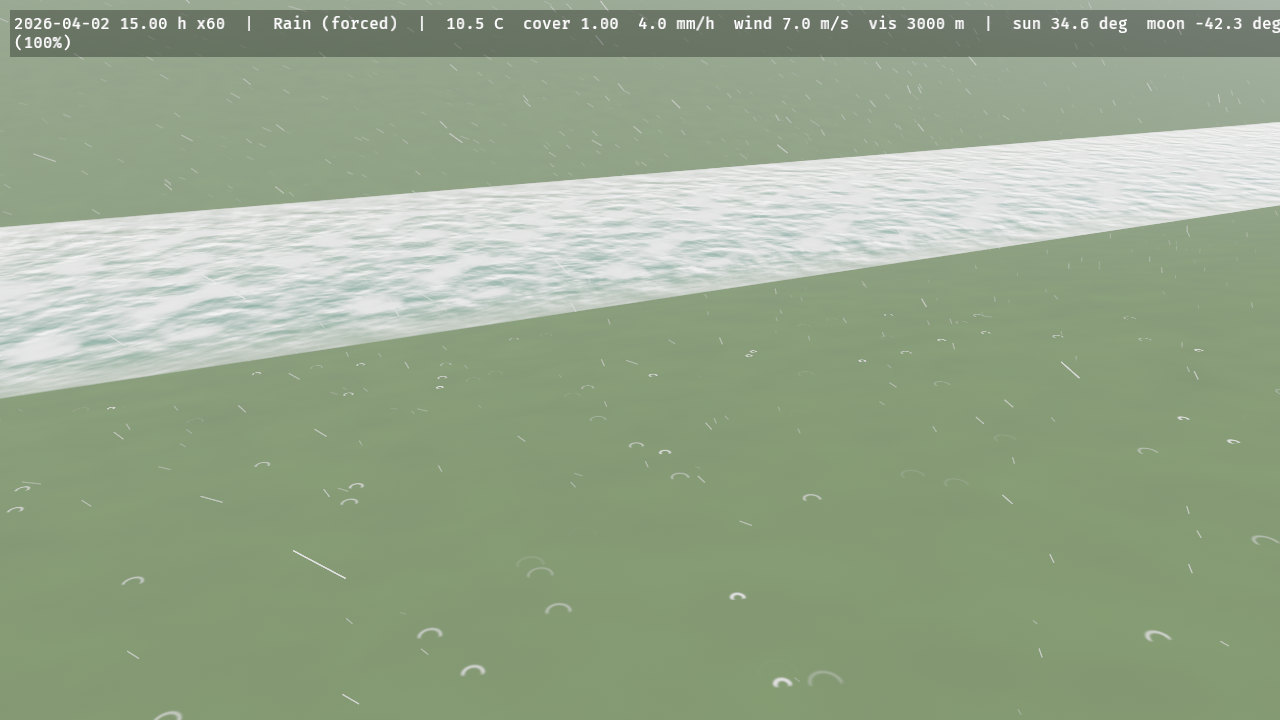
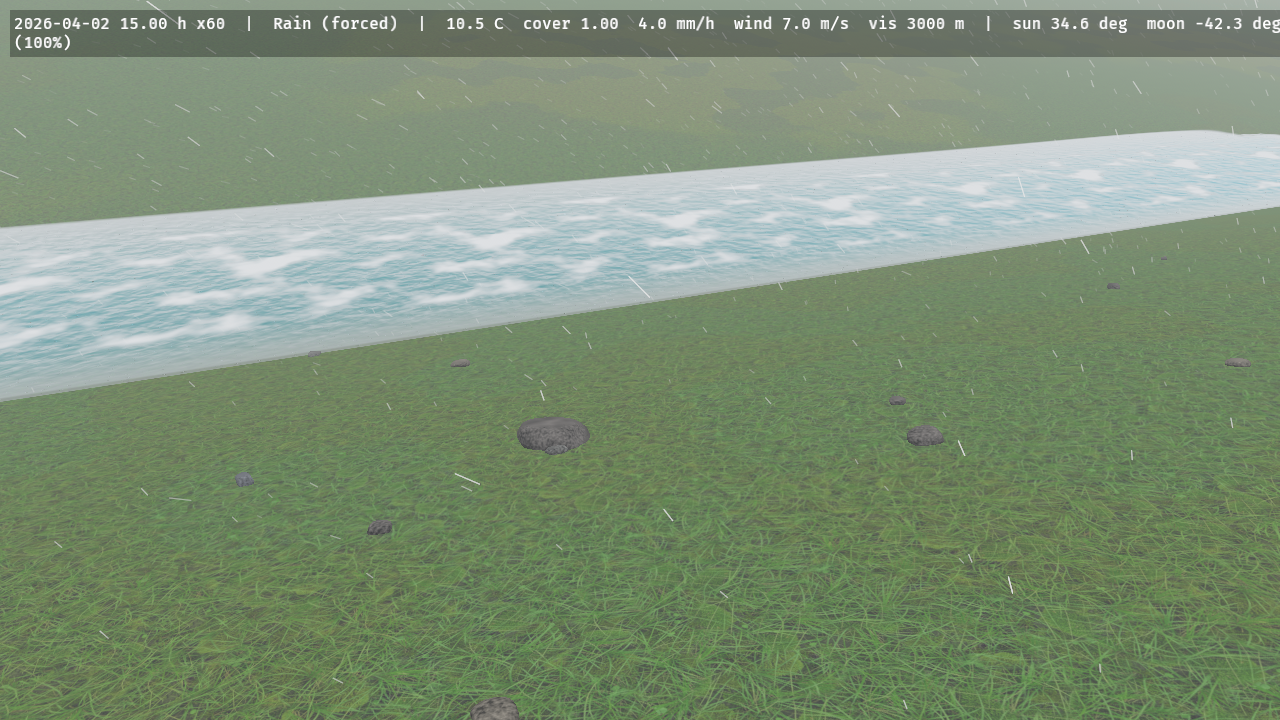
Docs: wet ground (README, showcase stills, changelog, the notes' pointers, three AGENTS traps)

diff --git a/README.md b/README.md
@@ -185,7 +185,7 @@ By default the crate draws the ground: a pool of 33 × 33-vertex patches selecte
 
 #### Clouds in reflections and sky light
 
-Every reflection and the sky light of every PBR surface come from the camera's environment map. `CloudPlugin` puts the clouds in it: it marches them into a cube around the followed camera (the size of its atmosphere cube, 128² per face by default), composes that cube with Bevy's clear-sky cube exactly as the screen composite composes the sky (toward the ground, Bevy's ground lit by the light the dome lets through), and hands it to the camera's `GeneratedEnvironmentMapLight`, which Bevy filters into the glossy reflections and the diffuse irradiance. A pond under cumulus reflects the cumulus and the blue between them; under overcast, water and wet ground are a grey mirror a little darker than the sky (they reflected a blue sky, and near grazing were brighter than the sky); and the overcast dome lights a top more than a wall and a wall more than an underside (1 : 0.67 : 0.37), so a metal box mirrors the bright sky on its top and the ground on its sides. The camera's `AmbientLight` then carries no cloud light. One texel of every k × k block of each face is re-marched a frame at half the screen march's steps (`CloudQuality::probe_edge`) and blended into its history; a camera without the crate's atmosphere, or that is not followed, keeps Bevy's sky and the uniform cloud ambient. The overcast dome comes out nearly flat (zenith 1.08 × the sky 5–10° up) where real overcast skies are graded 2:1 to 3:1: that is the cloud model's, on the screen too. `docs/research/sky-light.md`.
+Every reflection and the sky light of every PBR surface come from the camera's environment map. `CloudPlugin` puts the clouds in it: it marches them into a cube around the followed camera (the size of its atmosphere cube, 128² per face by default), composes that cube with Bevy's clear-sky cube exactly as the screen composite composes the sky (toward the ground, Bevy's ground lit by the light the dome lets through), and hands it to the camera's `GeneratedEnvironmentMapLight`, which Bevy filters into the glossy reflections and the diffuse irradiance. A pond under cumulus reflects the cumulus and the blue between them; under overcast, water is a grey mirror a little darker than the sky (it reflected a blue sky, and near grazing was brighter than the sky); and the overcast dome lights a top more than a wall and a wall more than an underside (1 : 0.67 : 0.37), so a metal box mirrors the bright sky on its top and the ground on its sides. The camera's `AmbientLight` then carries no cloud light. One texel of every k × k block of each face is re-marched a frame at half the screen march's steps (`CloudQuality::probe_edge`) and blended into its history; a camera without the crate's atmosphere, or that is not followed, keeps Bevy's sky and the uniform cloud ambient. The overcast dome comes out nearly flat (zenith 1.08 × the sky 5–10° up) where real overcast skies are graded 2:1 to 3:1: that is the cloud model's, on the screen too. `docs/research/sky-light.md`.
 
 ![The pond at 16:30 under a partly cloudy sky: the cumulus and the blue gaps between them reflected in the water, which is a mirror with a fine skin on it](docs/sky_light.png)
 
@@ -229,7 +229,7 @@ fn strategy_view(mut commands: Commands) {
 
 ### Weathered materials
 
-`WeatheredMaterial` is `ExtendedMaterial<StandardMaterial, WeatheredExtension>`: give any mesh one and it follows the weather. `WeatheredPlugin` writes `ElementsGlobals` every frame (wetness, snow cover and snow depth from `SurfaceWeathering`, the rain intensity `min(1, R_liquid/20)`, the cloud shadow map, ripple and streak phases, the world units, the trail window) into one 128-byte storage buffer all weathered materials bind (binding 101, fragment stage only: it leaves the fragment stage two of the eight storage buffers WebGPU guarantees). A wet surface loses up to half its albedo in proportion to its porosity (Lagarde's gloss-based estimate: rough surfaces soak, plastic, tile and metal do not) and its roughness falls toward 0.1; rain on a wall adds darker streaks that run down it; faces turn white under snow with the curve `snow · smoothstep(0.85 − 0.6 snow, +0.2, n.y)` that `bevy_flora` uses, snow albedo `SNOW_ALBEDO` and roughness `SNOW_ROUGHNESS`, so trees and buildings read as one snow. `WeatheredExtension::exposure` is 1 under open sky and 0 sheltered (no wetness, streaks or snow, only cloud shadow): it does not follow a `PrecipitationBlocker` by itself, set it from your own test. `WeatheredExtension::default().with_trails()` also draws the trails pressed into it (below).
+`WeatheredMaterial` is `ExtendedMaterial<StandardMaterial, WeatheredExtension>`: give any mesh one and it follows the weather. `WeatheredPlugin` writes `ElementsGlobals` every frame (wetness, snow cover and snow depth from `SurfaceWeathering`, the rain intensity `min(1, R_liquid/20)`, the cloud shadow map, ripple and streak phases, the world units, the trail window) into one 128-byte storage buffer all weathered materials bind (binding 101, fragment stage only: it leaves the fragment stage two of the eight storage buffers WebGPU guarantees). A wet surface loses up to half its albedo in proportion to its porosity (Lagarde's gloss-based estimate: rough surfaces soak, plastic, tile and metal do not); a porous surface gains Lagarde's limited sheen (roughness × (1 − 0.4 · wetness · porosity), 0.54 for a soaked rough wall) and a smooth or metal one a water film at 0.1, as does a porous one drenched past saturation (a rain streak); rain on a wall adds darker streaks that run down it; faces turn white under snow with the curve `snow · smoothstep(0.85 − 0.6 snow, +0.2, n.y)` that `bevy_flora` uses, snow albedo `SNOW_ALBEDO` and roughness `SNOW_ROUGHNESS`, so trees and buildings read as one snow. `WeatheredExtension::exposure` is 1 under open sky and 0 sheltered (no wetness, streaks or snow, only cloud shadow): it does not follow a `PrecipitationBlocker` by itself, set it from your own test. `WeatheredExtension::default().with_trails()` also draws the trails pressed into it (below). `docs/research/wet-ground.md`.
 
 ```rust
 # use bevy::prelude::*;
@@ -274,7 +274,7 @@ fn pour_a_river(mut commands: Commands, mut bake: MessageWriter<ErodeTerrain>) {
 
 ### Ground cover
 
-`GroundCoverPlugin` keeps two maps on the `Terrain`'s grid, stepped on game time (the `WorldClock`) at most 20 times a second after hydrology's substeps. **Snow** is a depth and a water equivalent per cell: it accumulates at the cell's own rain–snow split (the lapse rate makes ridges snowier than valleys), keeps less on slopes between 35° and 55° and none under a `PrecipitationBlocker` (the roof's shelter follows the slanted fall of the rain or snow), settles from 100 toward 300 kg/m³ with a 3-day time constant, drifts downwind above 5 m/s (a flux that grows with the cube of the excess, deposited where the wind slows in the lee), is smoothed over a few cells, and melts at 4 mm of water per °C per day, every millimetre arriving in the `water` layer. **Wetness** follows rain and evaporation; the terrain and ground materials shade snow, wet darkening and gloss, and puddles with ripples.
+`GroundCoverPlugin` keeps two maps on the `Terrain`'s grid, stepped on game time (the `WorldClock`) at most 20 times a second after hydrology's substeps. **Snow** is a depth and a water equivalent per cell: it accumulates at the cell's own rain–snow split (the lapse rate makes ridges snowier than valleys), keeps less on slopes between 35° and 55° and none under a `PrecipitationBlocker` (the roof's shelter follows the slanted fall of the rain or snow), settles from 100 toward 300 kg/m³ with a 3-day time constant, drifts downwind above 5 m/s (a flux that grows with the cube of the excess, deposited where the wind slows in the lee), is smoothed over a few cells, and melts at 4 mm of water per °C per day, every millimetre arriving in the `water` layer. **Wetness** follows rain and evaporation; the terrain and ground materials shade snow, wet darkening and a porous sheen, and puddles with ripples. On the terrain the grass is a canopy whose wax beads the rain: a wet meadow deepens its green by `bevy_flora`'s wet-leaf rule (saturation × 1.25, brightness kept) and does not gloss, and only the soil, sand, rock and scree between darken and shine. Rain rings on a live terrain only where water stands at least `WetnessSettings::puddle_min_m` deep (`docs/research/wet-ground.md`).
 
 ```rust
 # use bevy::prelude::*;
@@ -294,7 +294,7 @@ fn deep_wet_snow(mut commands: Commands) {
 
 `Environment::snow_depth(Vec2)` and `wetness(Vec2)` answer from the last readback like `water_depth`. `SurfaceWeathering` (and so `ElementsGlobals` and `WeatheredMaterial`) follows the mean of the maps within 50 m of the camera once a terrain has been read back; before that, and without a terrain, it is the point model at the reference elevation.
 
-![Snow a game hour in under a clear sky](docs/ground_cover_snow.png) ![Wet ground with level puddles and ripples after a rain bake](docs/ground_cover_rain.png)
+![Snow a game hour in under a clear sky](docs/ground_cover_snow.png) ![After a rain bake under the Rain preset: the meadow a deeper green, level puddles in the hollows reflecting the overcast](docs/ground_cover_rain.png)
 
 ### Rocks
 
@@ -569,6 +569,8 @@ The budget is 1.0 ms at High. The weather map, shadow map, resolve and composite
 Terrain with 1024² cells over 2048 m (`hills(42)`; measured before High took Medium's 512² simulation size, below), 3840 × 2160, the camera 30 m above the ground looking 20° above the horizon (about half the frame is ground), minimum over the diagnostic history with the GPU at 1800–1950 MHz: the generator and first pack (`elements_terrain`: generate, pack, flow pack, leaf bounds and readback kernels, once at spawn, then again only when hydrology or erosion changes a layer) 0.34 ms; the terrain drawn: Bevy's `main_opaque_pass_3d` 0.088 ms (mean 0.146) against 0.016 ms (0.025) for the flat test scene, and the depth prepass 0.005 ms (0.002 ms for the flat scene). The selection picks at most 133 patches at High over 1500 random cameras, and the pool update writes nothing for a patch that kept its slot and bounds.
 
 Ground textures (`GroundTextures`), 3840 × 2160, the eye-level meadow (`hills`, `ELEMENTS_EYE=0,0,0 ELEMENTS_LOOK=12,-3,8 ELEMENTS_AGL=1.7`, ground filling the frame below the horizon), the opaque pass's mean with base and change interleaved in the same clock state (P5; at 4K the history's minimum reads zero): without a set 6.8–7.4 ms against the base's 7.1–7.3 (the textured path is compiled only into a set's pipeline), with the examples' soil and grass set 8.8–9.4 ms, **+26 %**. Anisotropic filtering, the set's size and the number of taps fetched did not move it; the shader's peak register count did (`docs/research/ground-textures.md`, Deviation 19).
+
+Wet ground (the porous sheen, the film albedo, the canopy, the rock's cavity occlusion), the same view and the mountain foot (`mountains`, `ELEMENTS_LOOK=60,0,60`), 3840 × 2160, the opaque pass over the early prepass of the same run (the ratio cancels the clock state; base and change interleaved): dry ground 55.2–55.6 against the base's 55.5–57.4, **unchanged**; soaked under `Rain` (`ELEMENTS_GROW_HOURS=3`) the meadow 57.2–58.7 against 54.7–55.3, **+5 %**, and the mountain 56.4–57.1 against 55.6–55.8, **+2 %**: the wet path's arithmetic, paid only where the ground is wet (`docs/research/wet-ground.md`, Cost).
 
 Hydrology and erosion (`elements_hydrology`: every substep's two kernels, the thermal kernels on every 4th, and the readback kernels on a readback tick), minimum over the diagnostic history after 240 warm-up frames, a 2 km procedural terrain with a 50 m³/s `WaterSource`, the quality's full substeps per frame; the GPU held 1800–1950 MHz (P2) with the clocks logged in the same shell:
 

diff --git a/docs/research/precipitation.md b/docs/research/precipitation.md
@@ -165,6 +165,7 @@ with $\sigma_V = 3.912/V$; the ground-fog density becomes $\sigma(\mathbf p) = \
 15. **`PrecipitationState` is public, and the draw pass has its own view marker.** The tests read the particle and splash buffers through `PrecipitationState` (`ReadbackOnce::buffer`), so the handles, the capacity and the active counts are a public resource; the buffer layout is in its rustdoc. The draw system's view filter is a crate-private `PrecipitationView` component added to every `ElementsCamera` (the note's `ExtractedElementsView`), so every such camera draws the particles around the one the simulation follows. The lightning flash term of "Lighting" is implemented in `draw.wesl` (`DrawParams::flash`) and fed from `LightningFlash` (the channel top at the cloud base and its intensity in cd) by `update_precipitation`. At the merge with clouds, the particles' sky light takes the same cloud factor as the scene (`sky_dimming`: the cloud shadow map's transmittance at the camera, `0.25 + 0.75·T̄`) instead of the M1 `cloud_transmission(cover)`, and the fog kernel samples the clouds' `CloudWeatherMap`, ordered after the clouds move its origin; with `CloudPlugin` disabled both fall back to the M1 factor and the neutral 1 × 1 map.
 16. **The note's Bevy claims were checked against the vendored 0.20.0 source and hold:** `Core3dSystems` order and `chain_weak` (`schedule.rs:50-69`), Bevy's `volumetric_fog` is `.after(MainPass).before(EarlyPostProcess)` (`volumetric_fog/mod.rs:100-103`) and its module is private (`lib.rs:55`), `main_opaque_pass_3d, main_transparent_pass_3d` chain in `MainPass` and `tonemapping` is in `PostProcess` (`core_3d/mod.rs:162-166`), the downlevel uniform limit is 16 KiB and `VERTEX_STORAGE` is a downlevel flag (`wgpu-types-30.0.1/src/limits.rs:510, :1138`), lit surfaces are multiplied by `view.exposure` inside `apply_pbr_lighting` and unlit output is not (`pbr_functions.wesl:832-901`, `pbr.wesl`). One correction of fact: `ReadbackOnce` is removed in `First` the frame after it is spawned (`gpu_readback.rs:145-147`), so it must be spawned from a system in `Update`; reading a buffer back between two `app.update()` calls silently never completes.
 17. **A snowflake's streak is capped at one diameter and its image is at least two pixels wide (the note: length $|\mathbf v_{rel}|T$, 1.7 cm at 1 m/s).** Defect: the shared capsule path stretched a flake along the full wind-relative velocity, so at the `snowfall` preset's 4 m/s wind (flakes advect with the wind, so $|\mathbf v_{rel}|$ is the wind) a 6 mm flake was a $4/60 = 6.7$ cm streak, an 11:1 capsule drawn one pixel wide at any distance: a hard dash (`rel_snow.png`, 2026-01-15 11:00, Snow), not "a slightly elongated disc, no motion blur beyond that". The note's 1.7 cm figure assumed no wind (a still-air fall at 1 m/s: 2.8 diameters for the mean flake, which the note itself called slightly elongated). Adopted (`draw.wesl`, `particle_vertex`): for snow only, the world streak is $\min(|\mathbf v_{rel}|T,\ 1\cdot D)$, so the capsule is at most $2:1$ (length $D$ plus the disc's own $D$, over width $D$) at any wind (4 m/s and 14 m/s are the Validation 15 cases), and the half width floor is 1 px instead of 0.5 px (`SNOW_MIN_HALF_WIDTH`) so a flake too far to resolve is a soft blob of about 2 px rather than a 1 px line; the opacity stays the Garg coverage law, $\alpha = 0.8\,\min(1,\ \tfrac12 D f / z\,/\,\text{half-width floor})$, which for a rain streak (floor 0.5 px) is the formula of Deviation 9 unchanged, so rain is bit-for-bit as before. The soft radial profile of the fragment shader is unchanged. The cap of one diameter and the 1 px floor are [INFERENCE]: the smallest change for which no flake in the `snowfall` screenshots reads as a dash while the unresolved flakes keep about the ink the dashes had (the floor widens the image, the coverage law divides alpha by the same factor). Known limit: the motion cue of falling snow is now the motion of the soft discs between frames, not the streak.
+18. **Rain rings only on standing water when a terrain is live (`wet-ground.md`, iteration 47).** The note writes a ring at every rain impact within 20 m (Model "Splashes", Validation 13 "splash rings on the ground"). Once wet ground stopped being a mirror the rings stood out as dozens of white 30 cm circles on the meadow (`hills_storm`), where physically a drop is caught by a leaf (Xiao et al. 1998) or soaks in, and a ring is a wave on free water (Tatarchuk 2006: "ripples … in the puddles"). The kernel now writes a ring for a ground impact on a live terrain only where the terrain's water is at least `WetnessSettings::puddle_min_m` deep (`rain.y` of the uniform), and always for an impact on a blocker's top face or on the plane of a scene without a terrain. The splash rate of Validation 11 (measured on the plane) is unchanged.
 
 Kept at the plan's values although the literature differs (art or unsourced numbers, no deviation): snow flutter 0.3 m/s at 0.5–1.5 Hz (no source found, [INFERENCE]); snow speed 1 m/s and diameter 4–8 mm (consistent with Rasmussen); box 60 m; particle maxima; count formulas; blockers ≤ 256; splash ring 4 096, 0.15 m, 0.25 s; soft fade 0.3 m for streaks and flakes.
 

diff --git a/AGENTS.md b/AGENTS.md
@@ -98,6 +98,29 @@ No system is implemented without its `docs/research/<system>.md`, committed firs
   Outcome). A surface the wrong *shade* — not dark navy, just off — can be this too: bisect by
   renaming before suspecting the maths, and compare a capture's mean against a CPU emulation of
   the same formula.
+- **The rock's cell networks change with the shader's register schedule, not only its maths.**
+  Any edit to the terrain fragment that changes how the driver schedules it — even a pure no-op
+  that keeps an early value (`w.w`, `trench`) alive to the end — moves the rock's float results in
+  the last bits, and pixels near a cell wall flip to the neighbouring block: 4-22 % of a cliff's
+  pixels by up to ~40 levels, structurally identical, while each build renders the same frame
+  run after run (iteration 47's bisection, `docs/loop-log.md`). Compare rock captures by
+  structure and band means, never bit-wise; a dry-rock "regression" after an unrelated shader
+  edit is this until a no-op of the same shape says otherwise.
+- **A value carried across `rock_material` costs the whole terrain pass.** The terrain
+  fragment's cost is its peak register count, which sits in the rock's material: a canopy share
+  made of the layer weights, the trench and the scree band — all dead before that call on `main` —
+  cost +5 % of the 4K opaque pass on dry ground, and folding the three into one value before the
+  call cost +20 %, while the same share read from the albedo after the call was free (iteration
+  47). Derive a late quantity from what is live there (the albedo, `n`, `rough`, `rockness`,
+  `depth`) rather than carrying an early one. Measure with the opaque pass over the early
+  prepass of the same run: the ratio cancels Xvfb's clock hopping to about ±3 %, where the
+  means alone swing 2×.
+- **`ELEMENTS_GROW_HOURS` grows the cover maps, not the water.** It advances the `WorldClock`,
+  which wetness and snow integrate; the hydrology runs on `HydrologySettings::time_scale` (real
+  time by default), so a 10 s capture of 3 grown hours of rain has soaked ground and about
+  0.01 mm of standing water. Standing water in a capture comes from a bake (`ErodeTerrain`), a
+  `WaterSource` or a long real-time run; anything that looks like water on grown ground is the
+  surface shading (iteration 46 blamed infiltration for what was the wet roughness).
 - **`SpecializedMeshPipelineError` has only `MissingVertexAttribute`**, so a material extension cannot reject a view without a depth prepass; the water shader needs `DEPTH_PREPASS` and fails to compile on a view without it.
 - **`AlphaMode::Multiply` and `Add` need premultiplied output**: Bevy's `premultiply_alpha` runs in `main_pass_post_lighting_processing`; a shader that writes the result itself (the water's absorb pass) must write `(X·a, a)` for Multiply, because the blend is `dst·src.rgb + (1 − src.a)·dst`.
 - **A displaced mesh needs its own `Aabb` and `NoAutoAabb`**, and `MeshTag::new(level)` (the struct has a debug-only private field). The terrain's vertex shader reads the patch origin from the instance matrix's translation, so patches are children of the terrain entity and the terrain `Transform` has no rotation or scale.

diff --git a/docs/research/wetness.md b/docs/research/wetness.md
@@ -139,8 +139,9 @@ Materials. The fragment stage has 3 free storage-buffer slots at limit 8 with an
 10. **Wetness (and snow) updates once per frame with the frame's whole Δt**, after the frame's snow steps (`snow-cover.md` Deviation 13). A clock jump of more than 600 s is integrated by several snow steps but one wetness step, whose clamp sees only the end of the jump; it matters only above 12 000× time scale at 20 Hz.
 11. **Puddles are the hydrology `water` depth wherever it exceeds 2 mm, including rivers and lakes**; the water renderer, where one exists, draws over them. A puddle under snow keeps its level normal and is covered by the snow colour and roughness (snow wins, flora order), which shows as pale blue patches in `docs/ground_cover_snow.png`: snow lies on standing water as it does on a map cell.
 12. **Soak time with drying counted.** `Validation 1` says wetness is 1.0 at 0.5 h; with the evaporation of the dry-down weather also acting (0.08 per hour) it is 0.521 h. The check is on the formula, not the rounder number.
+13. **Superseded by `wet-ground.md` (iteration 47): the wet roughness, and the grass.** Model adopted 3's "roughness lerp to 0.1" (Parameters "Wet roughness", Validation 6 and 9) made every wet surface a mirror: rain turned the meadow into a grey lake, the cliff into chrome and the dunes white in the middle distance. A porous surface now takes Lagarde 3b's limited gloss, $r\,(1 - 0.4\,w\,\phi)$ (0.54 for $r$ = 0.9 soaked), and the 0.1 film is kept for smooth and metal surfaces and for drenched porous ones ($w$ > 1); the terrain's grass is a canopy and takes `bevy_flora`'s wet-leaf rule (saturation × (1 + 0.25 w), no gloss) instead of the porous one. Validation 6 and 9 read 0.54 for the soaked rough cube. Model adopted 4 (puddles) is unchanged.
 
-Kept at the plan's values although sources differ: `wet_per_mm` 0.5 and `dry_rate_h` 0.05 (self-consistent as a 2 mm film, and `evaporation_mm_h` is within 0.5–1.5× of FAO-56 at the tested point); albedo multiplier 0.5 (between the film-physics 0.50–0.79 and Lagarde's 0.2–0.3, equal to flora's 0.55); roughness 0.1; puddle depths 0.002–0.02 m. Lagarde's advice that drying should take about a minute is a game-time statement; here drying is on game time (11.25 h at 20 °C, RH 0.5, 3 m/s, night) and is a few minutes of real time at the usual time scales of 120–600.
+Kept at the plan's values although sources differ: `wet_per_mm` 0.5 and `dry_rate_h` 0.05 (self-consistent as a 2 mm film, and `evaporation_mm_h` is within 0.5–1.5× of FAO-56 at the tested point); albedo multiplier 0.5 (between the film-physics 0.50–0.79 and Lagarde's 0.2–0.3, equal to flora's 0.55); puddle depths 0.002–0.02 m. (The roughness 0.1 once listed here is Deviation 13's film roughness now.) Lagarde's advice that drying should take about a minute is a game-time statement; here drying is on game time (11.25 h at 20 °C, RH 0.5, 3 m/s, night) and is a few minutes of real time at the usual time scales of 120–600.
 
 ## Pending index
 

diff --git a/CHANGELOG.md b/CHANGELOG.md
@@ -161,6 +161,37 @@ All notable changes to bevy_elements. The format follows [Keep a Changelog](http
 
 ### Fixed
 
+- **Wet ground is no longer a mirror.** Every surface the crate wets went to roughness 0.1 at
+  full wetness, so in rain a meadow became a choppy grey lake, the hills at dusk looked
+  snow-covered, a cliff turned to crumpled chrome and the dunes went white in the middle
+  distance. Against the same rain on dry ground the meadow's 10–60 m band measured 187 against
+  124 (luminance) and a median saturation of 0.032 against 0.308: rain made the ground brighter
+  and greyer, the opposite of what water does. Now a porous surface takes Lagarde's limited wet
+  sheen, roughness × (1 − 0.4 · wetness · porosity) (0.54 for a soaked rough surface), and the
+  water film at 0.1 is kept for smooth and metal surfaces and for a wall drenched by a rain
+  streak. Its albedo darkens by the water-film physics per channel,
+  (1 − r_e)(1 − r_i) ρ / (1 − r_i ρ), instead of a flat half: a dark channel loses more than a
+  bright one, so wet colour is more saturated and wet sand is darker and browner rather than
+  greyer (near sand: saturation 0.258 against 0.245 dry). The terrain's grass is a canopy whose
+  wax beads the rain and takes `bevy_flora`'s wet-leaf rule (saturation × 1.25, brightness kept,
+  no gloss), so a wet meadow is a deeper green (the same band: 123 and 0.384); the canopy is read
+  from the albedo's excess green (Woebbecke et al.'s `2g − r − b`), so the soil between the
+  blades darkens as soil and the shader carries nothing new across the rock's material. A rock's joints
+  and fractures now occlude its sky reflection by the same visibility that darkens them, so a
+  wet cliff keeps its dark joint network under the sheen (dry, it changes by a few levels).
+  `WeatheredMaterial` and `GroundMaterial` take the new porous rule too (a soaked rough wall at
+  0.54); puddles, ripples and snow are unchanged. See `docs/research/wet-ground.md`.
+
+- **Rain no longer rings on dry grass.** Every rain impact within 20 m of the camera drew an
+  expanding white ring, so a storm littered the meadow with 30 cm white circles. A ring is a
+  wave on free water: on a live terrain an impact now rings only where the terrain holds
+  standing water at least `WetnessSettings::puddle_min_m` deep (a puddle, a river, a lake). A
+  blocker's top face and the plane of a scene without a terrain ring as before.
+
+- **The `weathered_town` example's ground reaches the horizon.** Its 600 m slab ended in a hard
+  line against the rain haze once the wet ground stopped mirroring the sky; it is 40 km now,
+  like the other examples' ground.
+
 - **The CPU mirror's `fract` was the wrong one.** Bevy's `Vec3::fract` is `x − trunc(x)` and so
   is **negative** for a negative coordinate, while WGSL's is `x − floor(x)` and is always in
   [0, 1). The two disagreed about where every cell's wall was, and the terrain model's joint

diff --git a/docs/research/wet-ground.md b/docs/research/wet-ground.md
@@ -60,7 +60,7 @@ In the frames this reads as a choppy grey lake where the meadow was (`hills_rain
 - `render.wesl`: the canopy share is the excess green of the albedo, which is in registers at the weather step anyway: a sum, a division and a smoothstep. The saturation boost is a dot product and a multiply-add, only when `wet > 0`. The rock's `RockMaterial` gains `sky` (the product of the joint and fracture factors it already computes) and the terrain multiplies `pbr_input.specular_occlusion` by `mix(1, sky, rockness)`. No new binding, buffer, texture or uniform.
 - `precip.wesl`: the ground hit's water depth is read from the `terrain_cells` the kernel already binds (bilinear, as `ground_at`), and the ring is written only when the ground was hit before any blocker and, on a live terrain, the water is at least `rain.y` deep; `rain.y` is the free lane of the existing `rain` uniform. No new binding.
 - `weathered/mirror.rs`: the CPU mirror gets the same rule (its tests are the shading-number contract).
-- Cost: the shader's cost is its peak register count (iteration 46), not its arithmetic. Measured at 4K on the dry meadow, the opaque pass over the early prepass (a clock-free ratio): base 55.5-57.4; with the canopy share taken from the layer weights 59.1-59.4 (+5 %, and +20 % when the three were folded into one value before the rock's material); with no canopy at all 54.5-55.5. The layer weights, the trench and the scree band had to stay live across the rock's material, the shader's hottest call; the albedo does not.
+- Cost: the shader's cost is its peak register count (iteration 46), not its arithmetic. Measured at 4K on the dry meadow, the opaque pass over the early prepass (a clock-free ratio): base 55.5-57.4; with the canopy share taken from the layer weights 59.1-59.4 (+5 %, and +20 % when the three were folded into one value before the rock's material); with no canopy at all 54.5-55.5. The layer weights, the trench and the scree band had to stay live across the rock's material, the shader's hottest call; the albedo does not. Final, with the canopy from the excess green: dry 55.2-55.6 (unchanged); soaked under Rain the meadow 57.2-58.7 against 54.7-55.3 (+5 %) and the mountain foot 56.4-57.1 against 55.6-55.8 (+2 %), the wet path's own arithmetic.
 
 ## What great looks like
 
